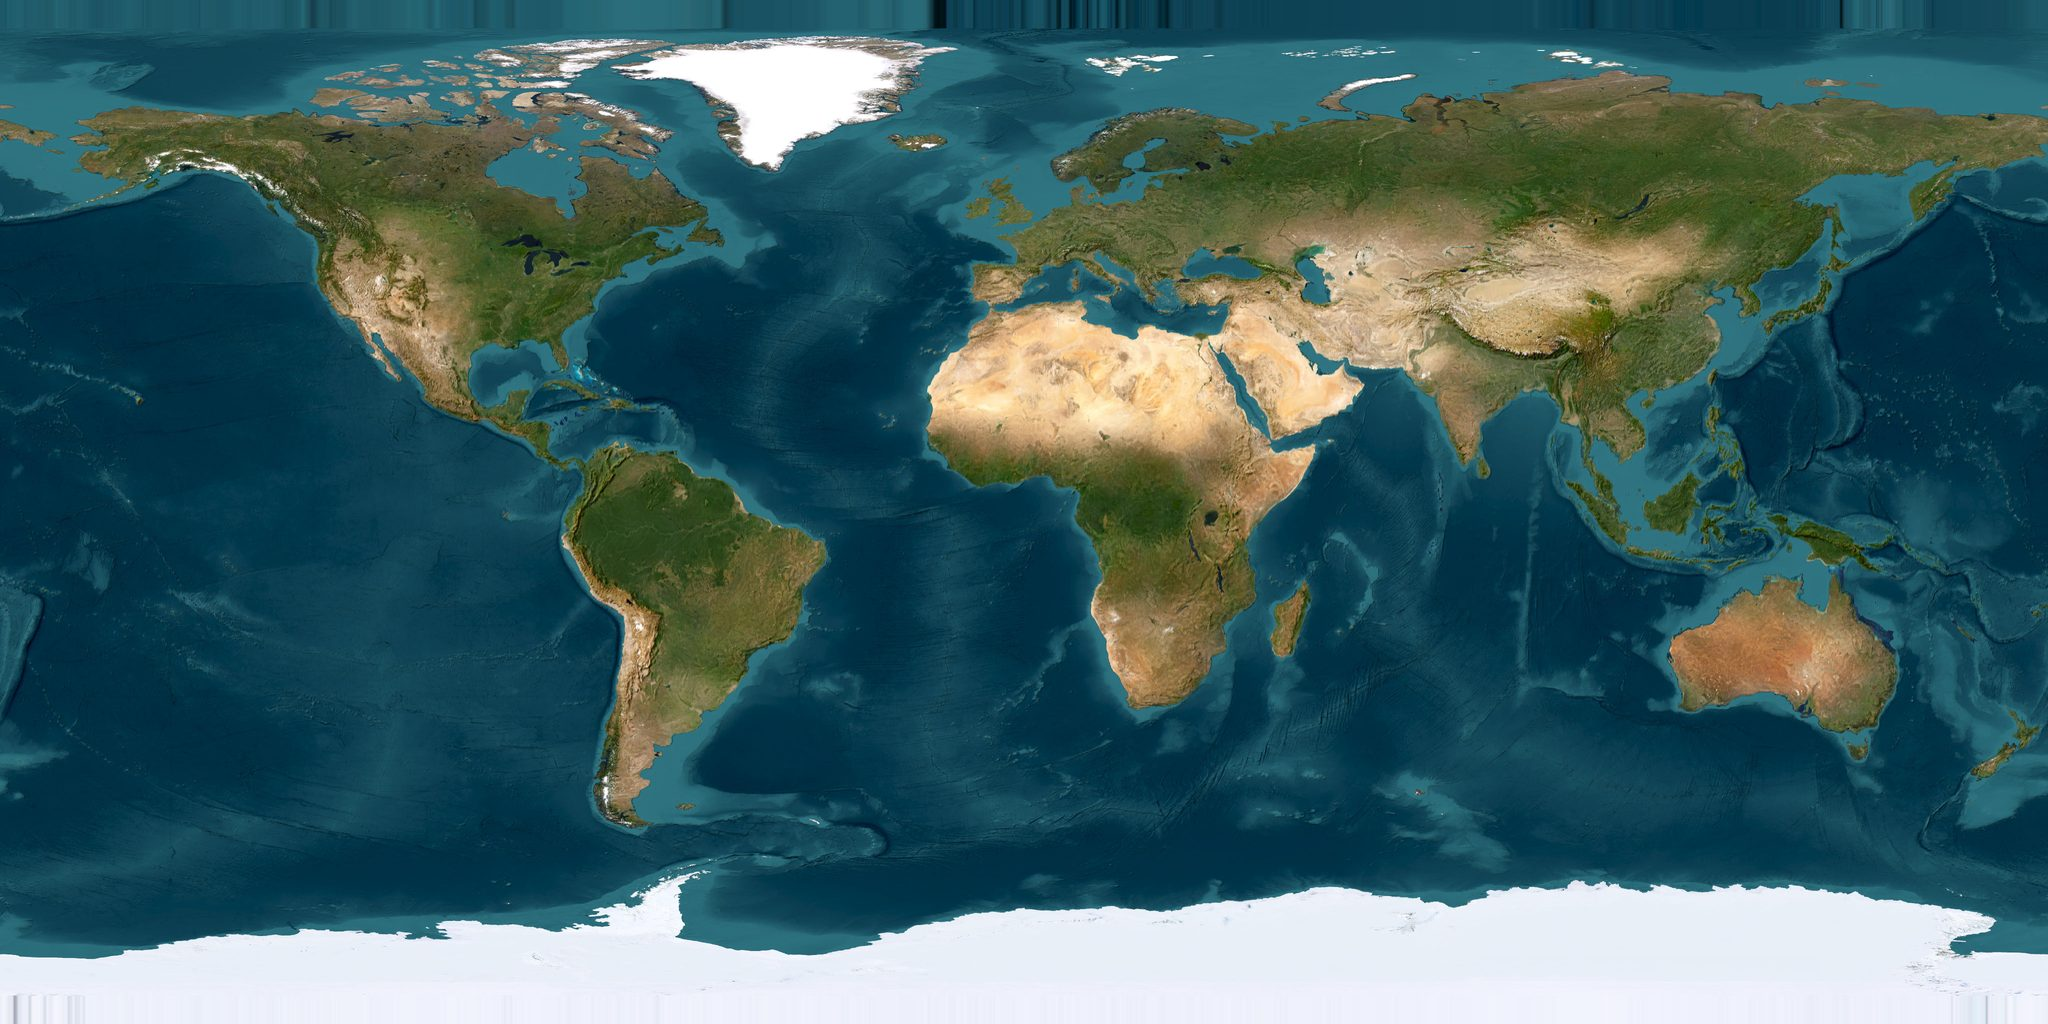
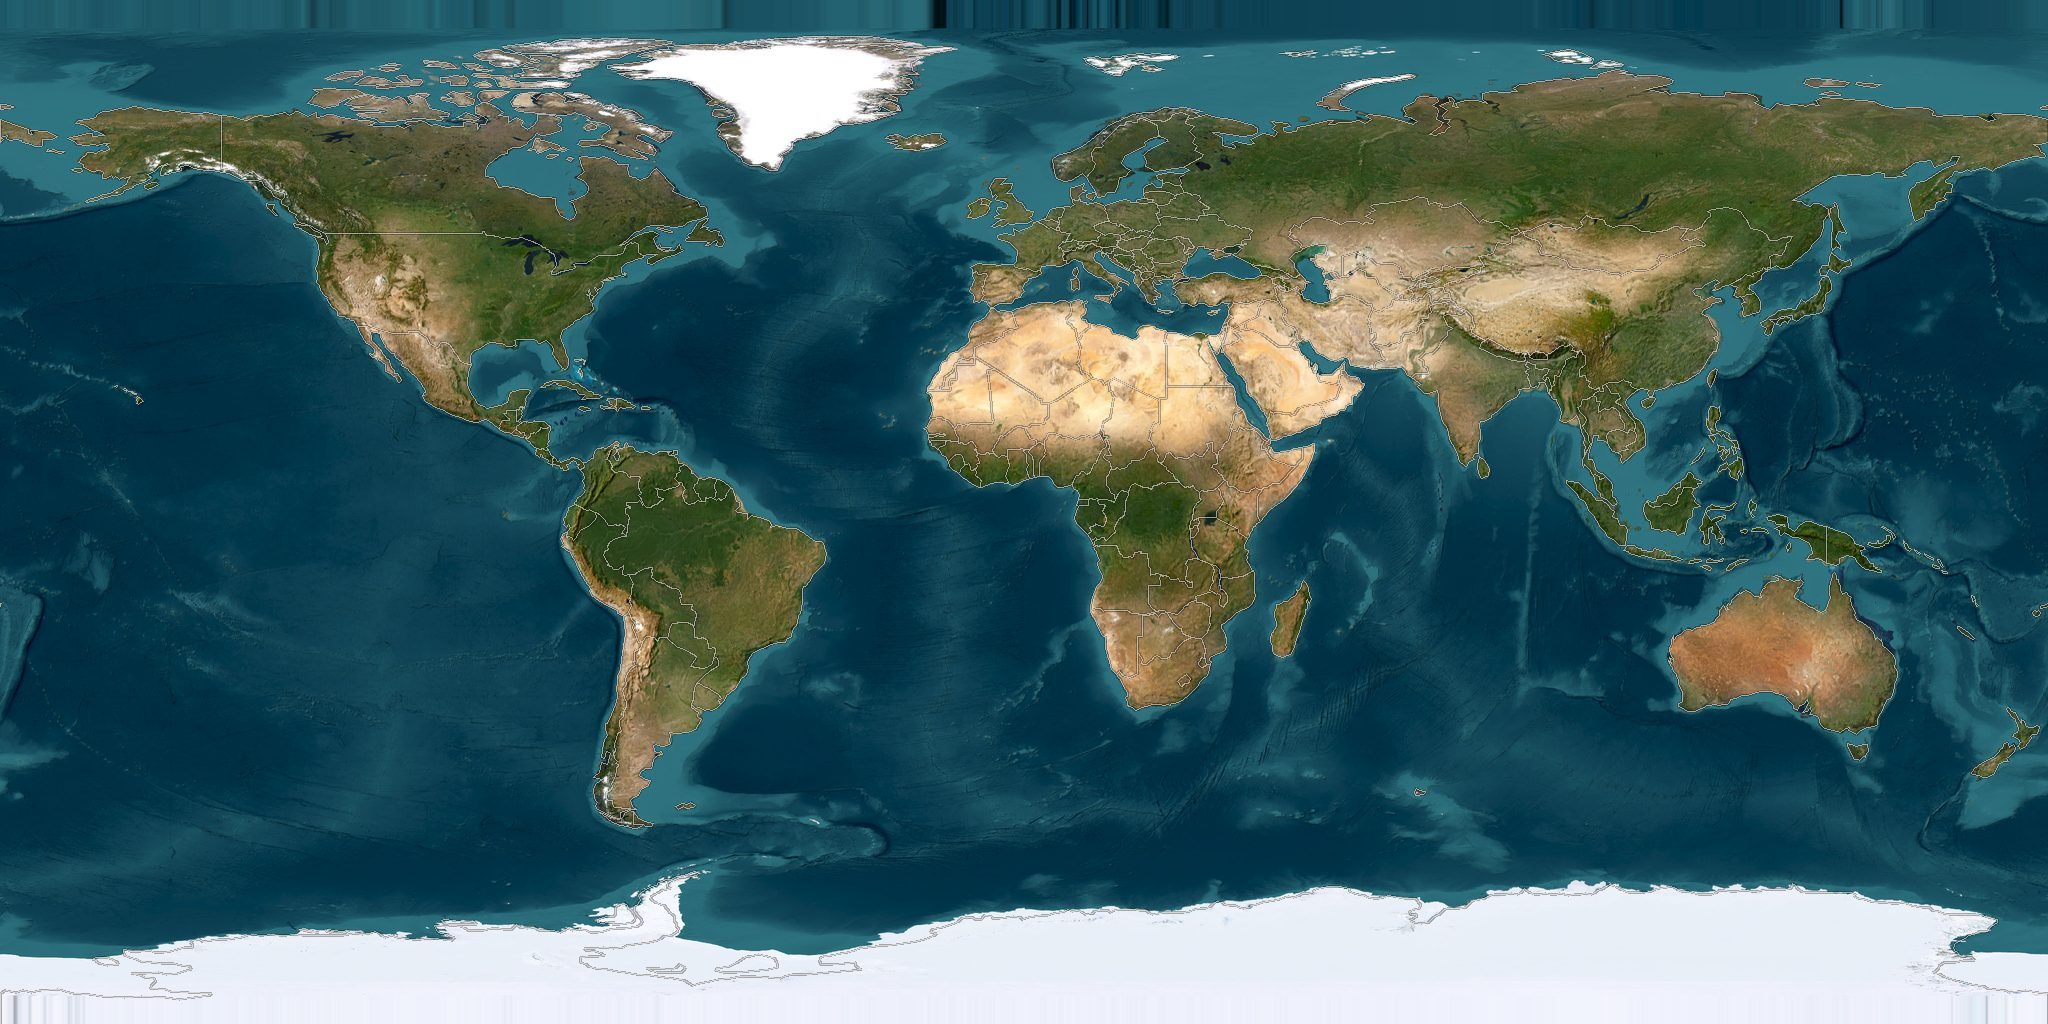
Whole-globe framing for all screens, country borders on satellite Earth, texture pre-warm

diff --git a/src/components/webar/CinematicScene.tsx b/src/components/webar/CinematicScene.tsx
@@ -148,14 +148,24 @@ const clamp01 = (x: number) => Math.max(0, Math.min(1, x));
 const phaseProgress = (t: number, from: number, to: number) => clamp01((t - from) / (to - from));
 
 /** Camera altitude above the globe surface along the Baku axis, per timeline. */
-function altitudeAt(t: number): number {
+/**
+ * Orbit distance that fits the ENTIRE globe (all countries) on any screen —
+ * portrait phones need to pull back much further than landscape/desktop.
+ */
+function globeFitDistance(camera: THREE.PerspectiveCamera): number {
+  const halfV = THREE.MathUtils.degToRad(camera.fov) / 2;
+  const aspect = Math.min(1, camera.aspect); // portrait crops width hardest
+  return (GLOBE_R * 1.14) / (Math.tan(halfV) * aspect);
+}
+
+function altitudeAt(t: number, orbit: number): number {
   if (t < TIMELINE.clouds) return 1.5;
   if (t < TIMELINE.descent) return THREE.MathUtils.lerp(1.5, 1.32, phaseProgress(t, TIMELINE.clouds, TIMELINE.descent));
   if (t < TIMELINE.baku) return THREE.MathUtils.lerp(1.32, 0.34, easeInOut(phaseProgress(t, TIMELINE.descent, TIMELINE.baku)));
   if (t < TIMELINE.pullback) return THREE.MathUtils.lerp(0.34, 0.24, easeOut(phaseProgress(t, TIMELINE.baku, TIMELINE.pullback)));
-  if (t < TIMELINE.earth) return THREE.MathUtils.lerp(0.24, 4.4, easeInOut(phaseProgress(t, TIMELINE.pullback, TIMELINE.earth)));
-  if (t < TIMELINE.routes) return THREE.MathUtils.lerp(4.4, 4.55, phaseProgress(t, TIMELINE.earth, TIMELINE.routes));
-  return THREE.MathUtils.lerp(4.55, 4.35, phaseProgress(t, TIMELINE.routes, TIMELINE.cta + 4));
+  if (t < TIMELINE.earth) return THREE.MathUtils.lerp(0.24, orbit, easeInOut(phaseProgress(t, TIMELINE.pullback, TIMELINE.earth)));
+  if (t < TIMELINE.routes) return THREE.MathUtils.lerp(orbit, orbit * 1.05, phaseProgress(t, TIMELINE.earth, TIMELINE.routes));
+  return THREE.MathUtils.lerp(orbit * 1.05, orbit * 0.98, phaseProgress(t, TIMELINE.routes, TIMELINE.cta + 4));
 }
 
 /* ------------------------------------------------------------------ */
@@ -225,7 +235,8 @@ function CameraDirector({
   const target = useMemo(() => new THREE.Vector3(), []);
   useFrame((state) => {
     const t = timeline.current.t;
-    const h = altitudeAt(t);
+    const orbit = globeFitDistance(state.camera as THREE.PerspectiveCamera);
+    const h = altitudeAt(t, orbit);
     // position on the Baku axis
     state.camera.position.copy(BAKU_NORMAL).multiplyScalar(GLOBE_R + h);
 
@@ -448,7 +459,6 @@ function BakuCity({ timeline }: { timeline: React.MutableRefObject<TimelineState
           <planeGeometry args={[REGION_SIZE, REGION_SIZE]} />
           <meshBasicMaterial
             ref={regionMatRef}
-            color="#0e1420"
             transparent
             opacity={0}
             alphaMap={regionAlpha}
@@ -460,7 +470,6 @@ function BakuCity({ timeline }: { timeline: React.MutableRefObject<TimelineState
           <planeGeometry args={[CITY_SIZE, CITY_SIZE]} />
           <meshBasicMaterial
             ref={cityMatRef}
-            color="#0e1420"
             transparent
             opacity={0}
             alphaMap={cityAlpha}
